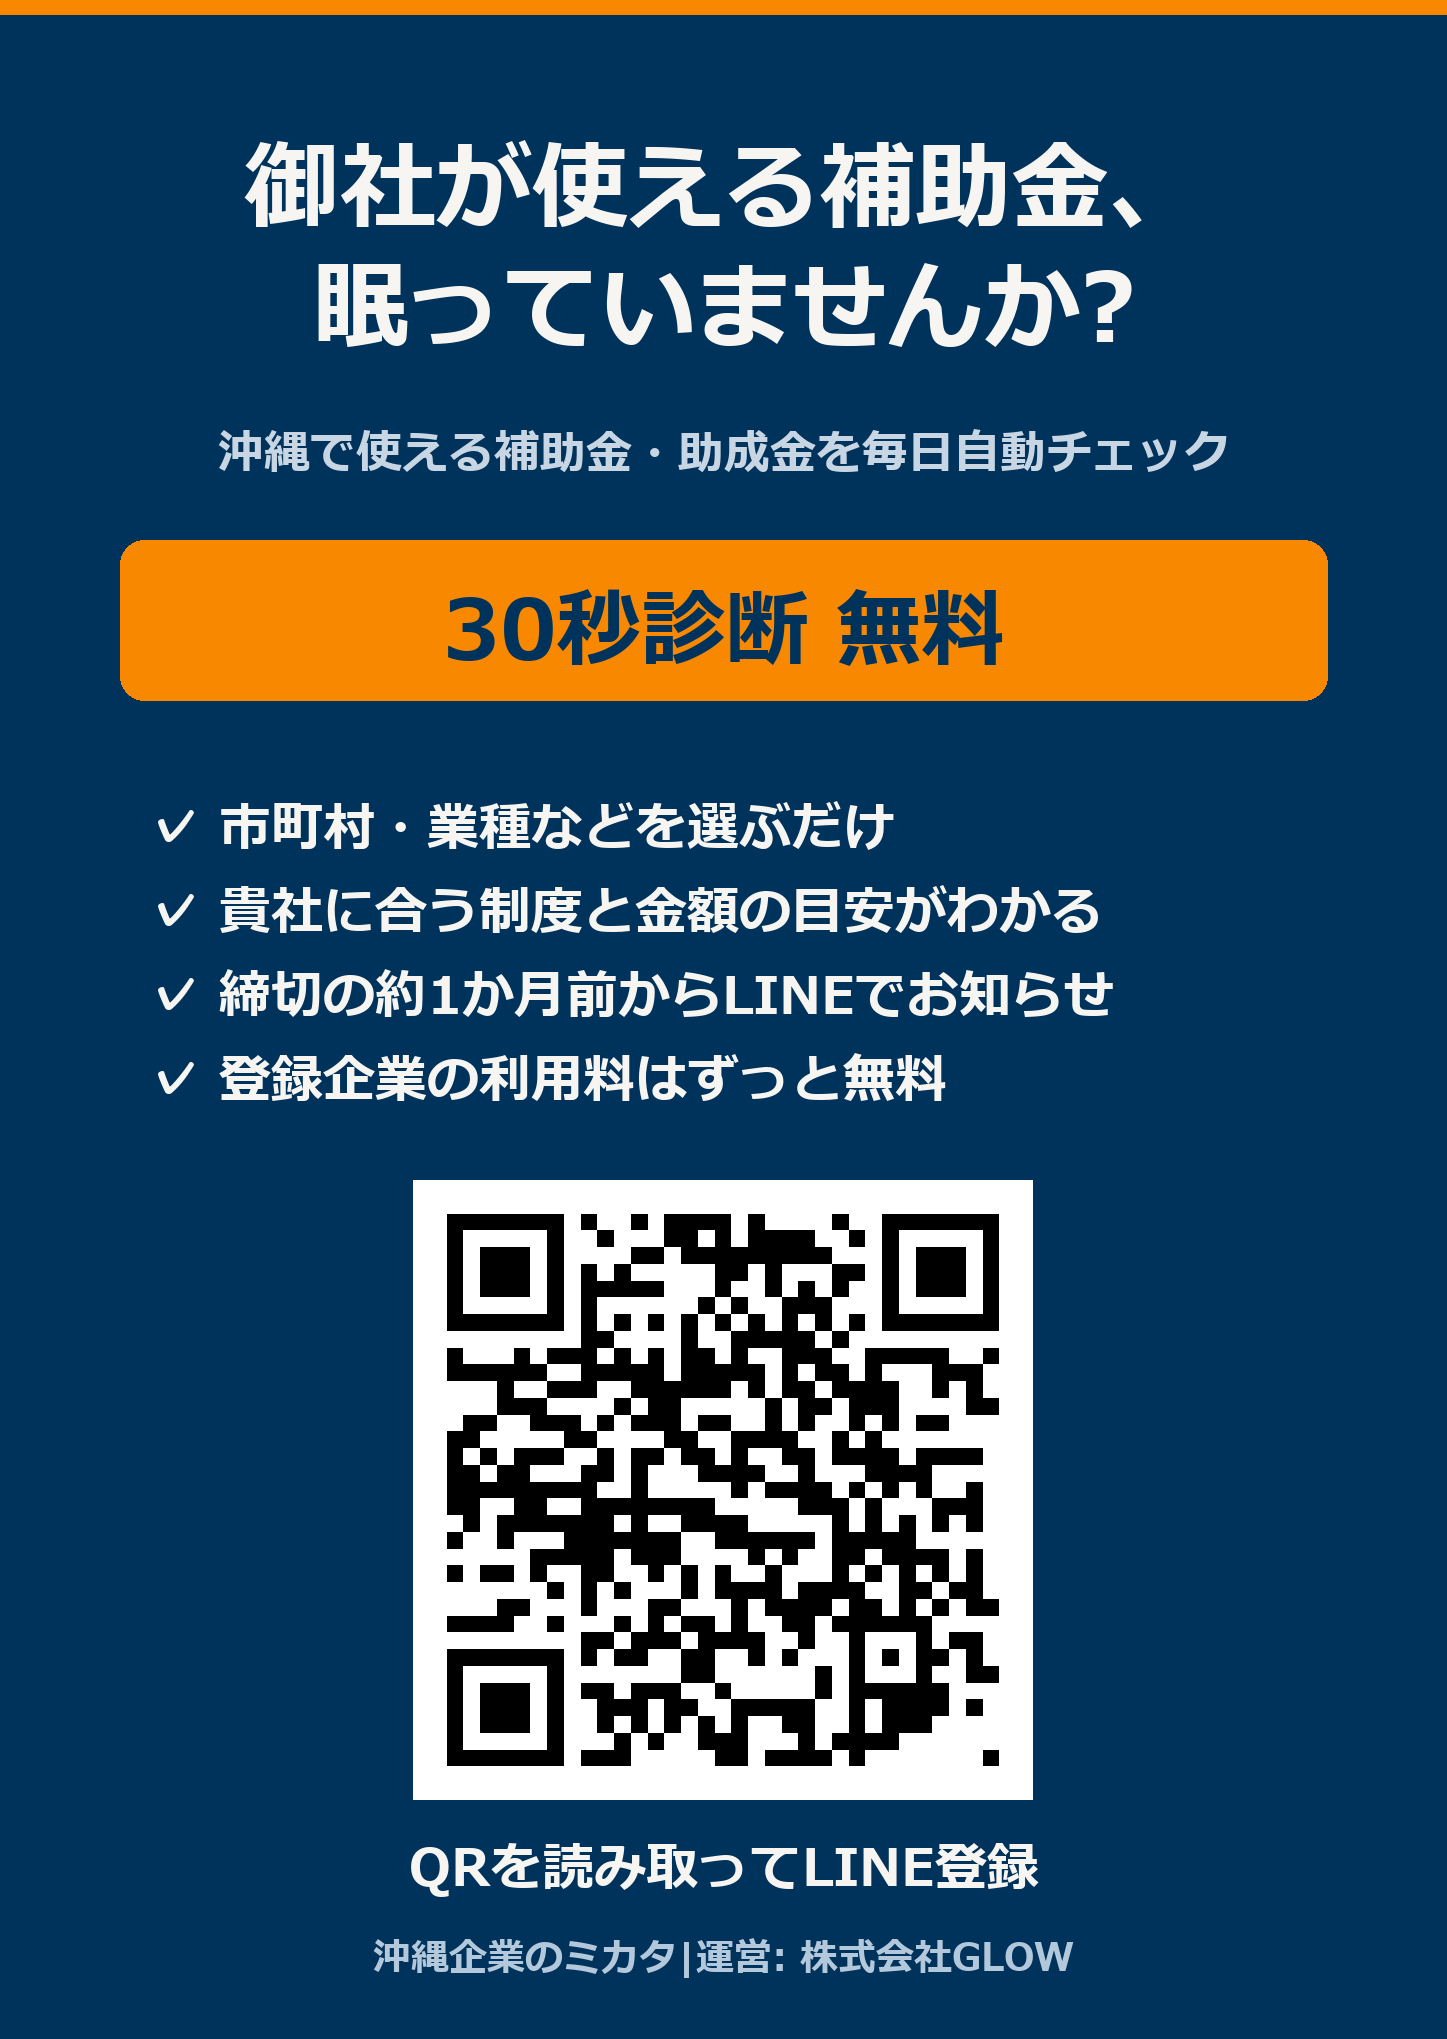
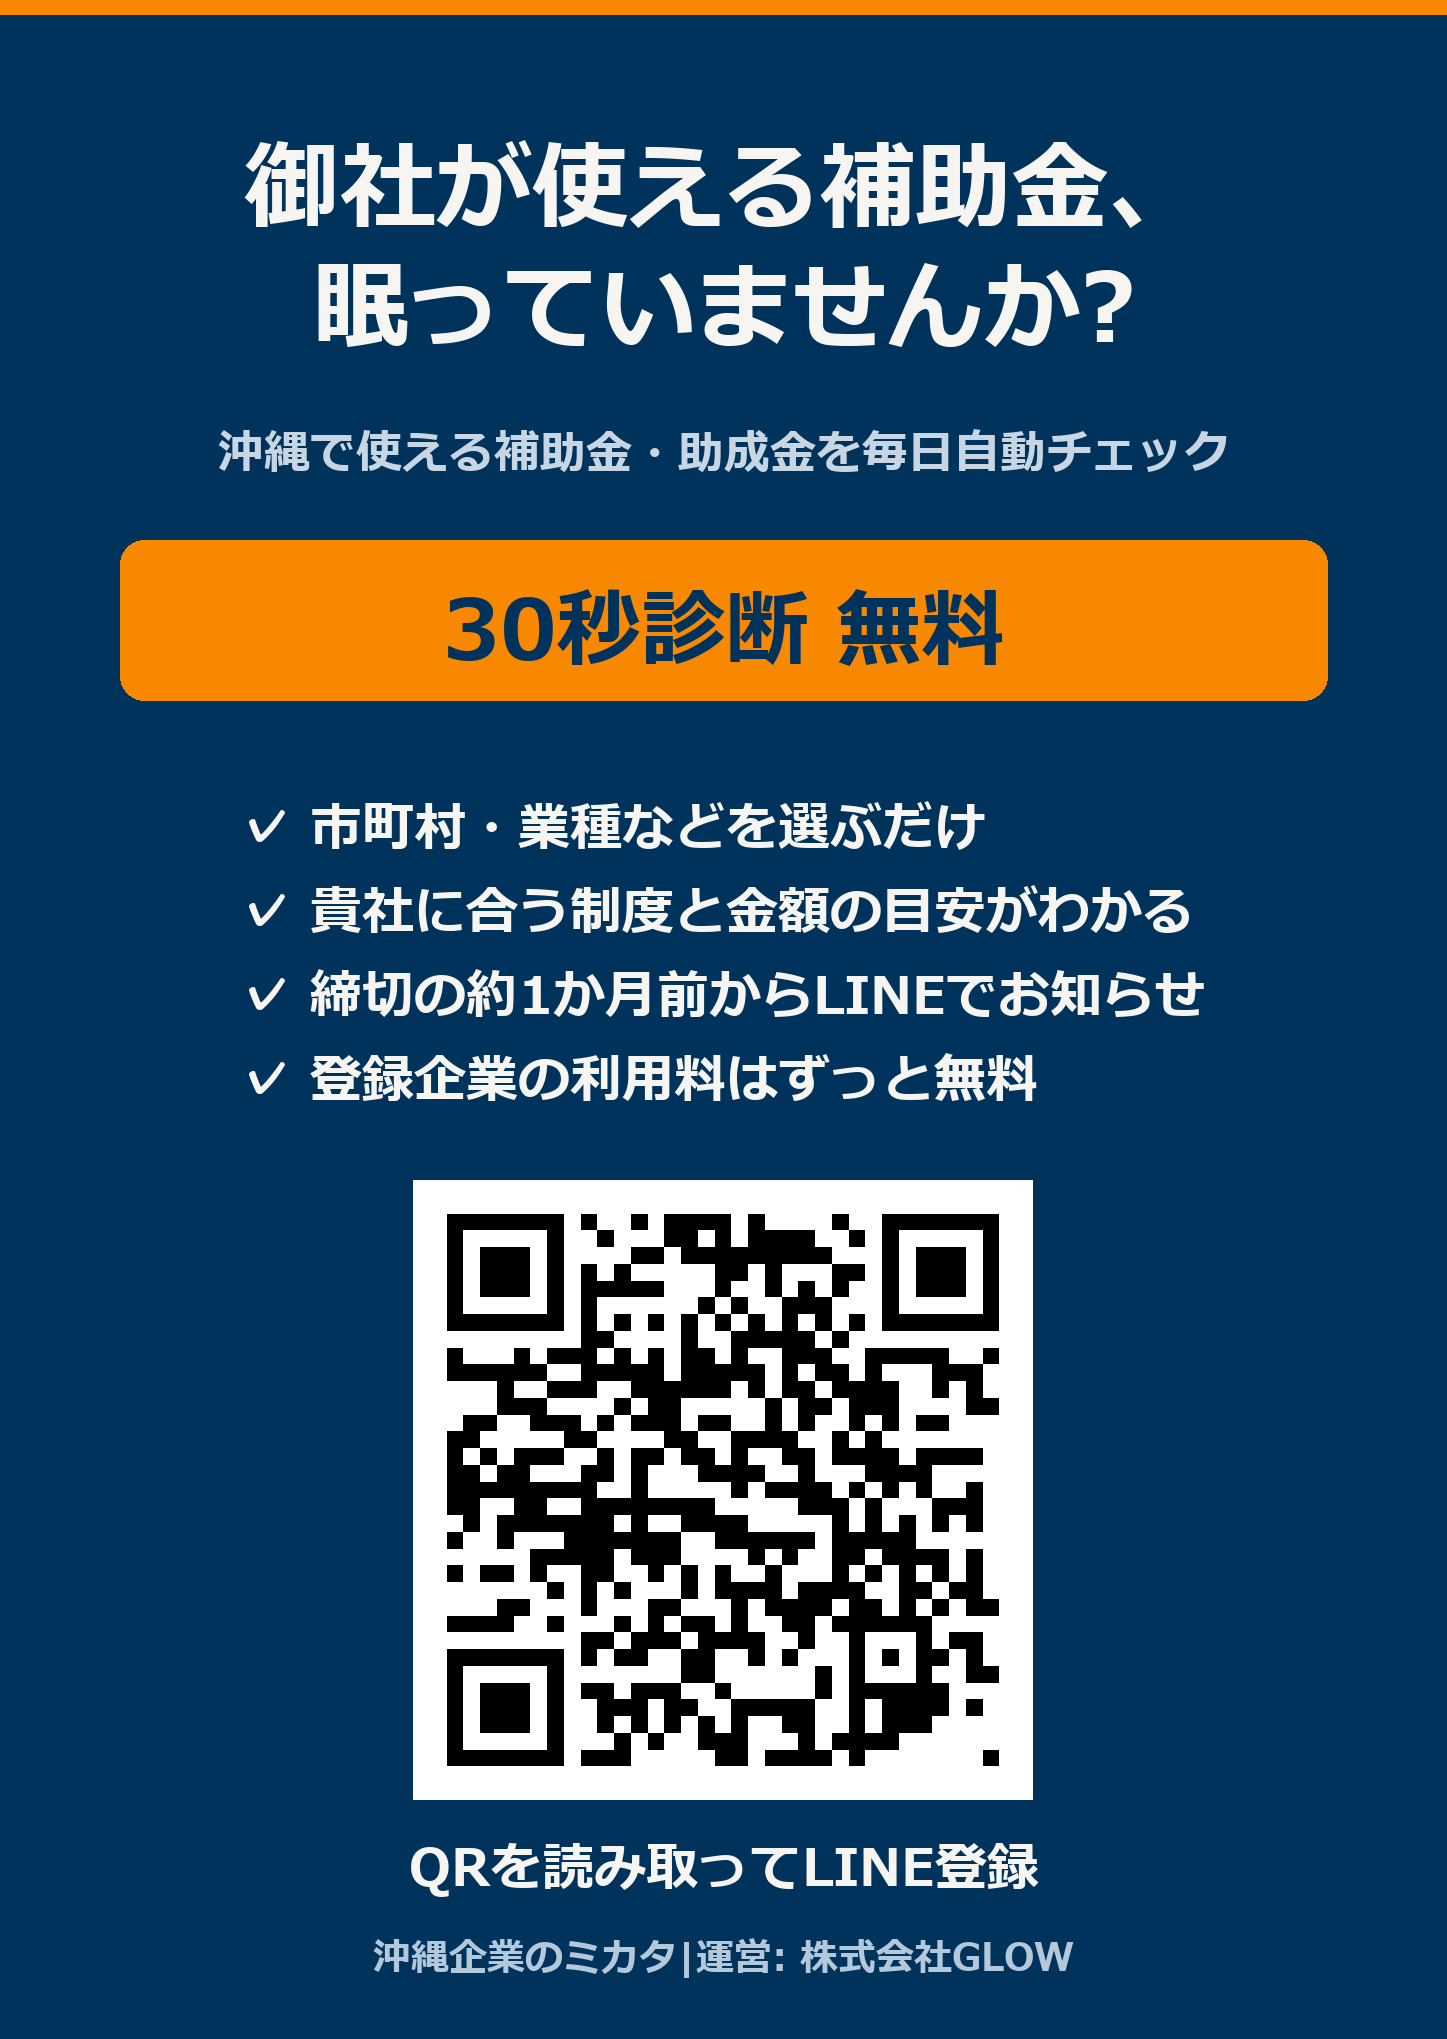
fix: QRカードの文字配置調整(名刺=QRラベルをQR中央に/A6=チェックリストをブロック中央配置)
2026-08-11 小柳さん指示。

Changed region(s): [[0.1555, 0.3708, 0.8397, 0.5562]]

diff --git a/scripts/generate_card.py b/scripts/generate_card.py
@@ -74,7 +74,12 @@ def card_meishi():
         d.text((84, 510 + i * 62), line, font=font(38), fill=WHITE)
     qr = make_qr(330)
     im.paste(qr, (W - 390, H // 2 - 165))
-    d.text((W - 390, H // 2 + 175), "QRでLINE登録", font=font(34), fill=WHITE)
+    # ラベルはQRの中心に合わせて中央揃え(2026-08-11 小柳さん指示)
+    label = "QRでLINE登録"
+    f_label = font(34)
+    qr_cx = (W - 390) + 165
+    d.text((qr_cx - d.textlength(label, font=f_label) / 2, H // 2 + 175),
+           label, font=f_label, fill=WHITE)
     os.makedirs(OUT, exist_ok=True)
     im.save(os.path.join(OUT, "card_meishi.png"))
     print("[ok] card_meishi.png (1254x758 / 91x55mm 350dpi)")
@@ -91,13 +96,19 @@ def card_a6():
     center(d, "沖縄で使える補助金・助成金を毎日自動チェック", font(46), 420, W, (200, 214, 228))
     d.rounded_rectangle([120, 540, W - 120, 700], radius=24, fill=ORANGE)
     center(d, "30秒診断 無料", font(84), 570, W, NAVY)
-    for i, line in enumerate([
+    # チェックリストはブロックごと中央配置(行頭の✓は縦に揃えたまま全体を中央へ。
+    # 2026-08-11 小柳さん指示「文字関係を中央に揃える」)
+    checks = [
         "✓ 市町村・業種などを選ぶだけ",
         "✓ 貴社に合う制度と金額の目安がわかる",
         "✓ 締切の約1か月前からLINEでお知らせ",
         "✓ 登録企業の利用料はずっと無料",
-    ]):
-        d.text((150, 790 + i * 84), line, font=font(52), fill=WHITE)
+    ]
+    f_check = font(52)
+    block_w = max(d.textlength(s, font=f_check) for s in checks)
+    x0 = (W - block_w) / 2
+    for i, line in enumerate(checks):
+        d.text((x0, 790 + i * 84), line, font=f_check, fill=WHITE)
     qr = make_qr(620)
     im.paste(qr, ((W - 620) // 2, 1180))
     center(d, "QRを読み取ってLINE登録", font(52), 1830, W, WHITE)
